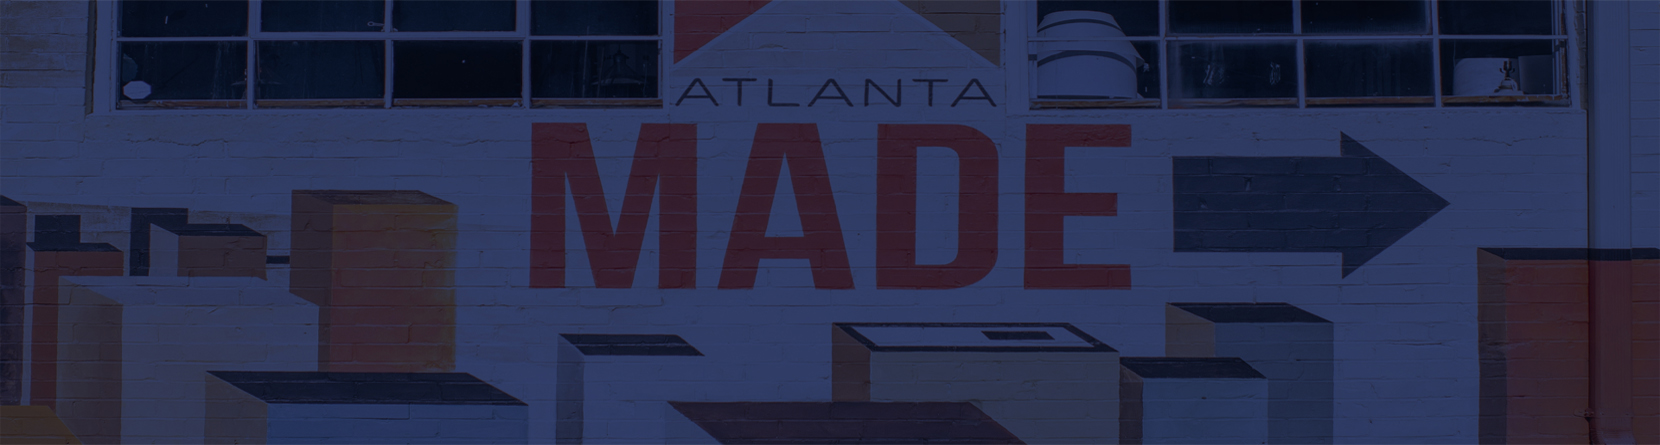
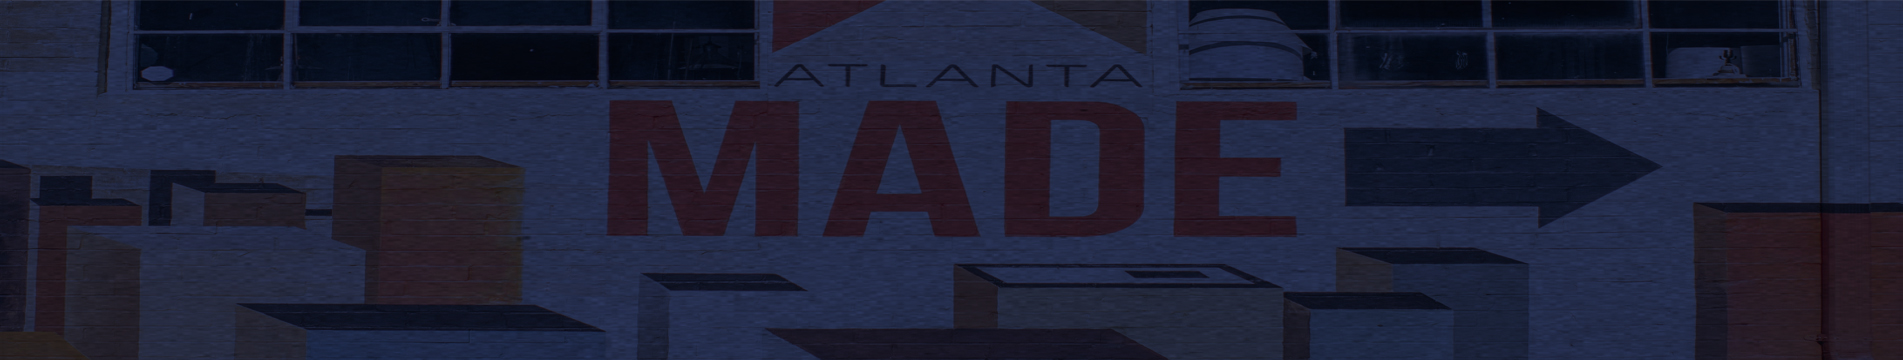
update index.html page

diff --git a/index.html b/index.html
@@ -7,39 +7,29 @@
     <meta name="description" content="I'm Mike and your should hire me to build your website">
     <meta name="viewport" content="width=device-width, initial-scale=1.0, viewport-fit=cover">
     <link rel="shortcut icon" type="image/png" href="favicon.jpg">
-    
 	<link rel="stylesheet" type="text/css" href="./css/bootstrap.css">
 	<link rel="stylesheet" type="text/css" href="style.css">
 	<link rel="stylesheet" type="text/css" href="./css/font-awesome.css">
 	<link rel="stylesheet" type="text/css" href="./css/et-line.css">
-	
-    
 	<script src="./js/jquery-2.1.0.js"></script>
 	<script src="./js/bootstrap.js"></script>
 	<script src="./js/blocs.js"></script>
 	<script src="./js/jquery.touchSwipe.js"></script>
 	<script src="./js/gmaps.js"></script>
-
-    <title>.</title>
-
-    
 <!-- Analytics -->
- 
 <!-- Analytics END -->
-    
 </head>
 <body>
 <!-- Main container -->
 <div class="page-container">
-    
 <!-- bloc-0 -->
 <div class="bloc bgc-white l-bloc " id="bloc-0">
 	<div class="container bloc-sm">
 		<nav class="navbar row">
 			<div class="navbar-header">
-					<div class="keywords" style="color:#cccccc;font-size:1px;"><!-- <h2>web agency atlanta, web strategy, web design, logo, website, web, internet, logo design</h2> --></div>
+					<div class="keywords" style="color:#cccccc;font-size:1px;"></div>
 				<a class="navbar-brand" href="index.html"><img src="img/atlanta%20web%20design%20logo.png" alt="logo, seo, google, website, internet, web design, design agency" height="40" /></a>
-					<div class="keywords" style="color:#cccccc;font-size:1px;"><!-- web agency atlanta, web strategy, web design, logo, website, web, internet, logo design --></div>
+					<div class="keywords" style="color:#cccccc;font-size:1px;"></div>
 
 				<button id="nav-toggle" type="button" class="ui-navbar-toggle navbar-toggle" data-toggle="collapse" data-target=".navbar-1">
 					<span class="sr-only">Toggle navigation</span><span class="icon-bar"></span><span class="icon-bar"></span><span class="icon-bar"></span>
@@ -61,7 +51,6 @@
 	</div>
 </div>
 <!-- bloc-0 END -->
-
 <!-- bloc-1-hero -->
 <div class="bloc bgc-dark-slate-blue bg-atlanta-20made-20sign d-bloc bg-t-edge bloc-bg-texture texture-paper b-parallax" id="bloc-1-hero">
 	<div class="container bloc-lg">
@@ -79,14 +68,12 @@
 	</div>
 </div>
 <!-- bloc-1-hero END -->
-
 <!-- bloc-2-services -->
 <div class="bloc bgc-white l-bloc" id="bloc-2-services">
 	<div class="container bloc-md">
 		<div class="row">
 			<div class="col-sm-12 text-center">
 				<article><h1>I create website and design graphics that help Atlanta companies become attractive and recognize online</h1></article>
-				<!-- <img alt="web agency, web design, logo design, atlanta agency, mike" src="img/title.png" /> -->
 			</div>
 		</div>
 		<div class="row voffset-lg med-width-whitespace">
@@ -126,14 +113,12 @@
 		</div>
 		<div class="row voffset-lg voffset">
 			<div class="col-xs-12 col-md-8 col-md-offset-2 text-center">
-				<!-- <img alt="web agency, web design, logo design " src="img/quote.png" /> -->
 				<article><h2>"Mike's an awesome <strong>freelance web designer!</strong> He captured the essence of our company in our websiteand has helped us <strong>double our online sales</strong> for our shop in Atlanta." <br>Taylor Cook, project manager Apple Delight</h2></article>
 			</div>
 		</div>
 	</div>
 </div>
 <!-- bloc-2-services END -->
-
 <!-- bloc-3-what-i-do -->
 <div class="bloc tc-white bgc-atomic-tangerine bloc-bg-texture texture-paper b-parallax bg-atlanta-20made-20sign-20orange d-bloc" id="bloc-3-what-i-do">
 	<div class="container bloc-lg">
@@ -150,15 +135,12 @@
 	</div>
 </div>
 <!-- bloc-3-what-i-do END -->
-
 <!-- bloc-4-portfolio -->
 <div class="bloc bgc-white bg-lines-h2-bg bg-repeat l-bloc" id="bloc-4-portfolio">
 	<div class="container bloc-lg">
 		<div class="row">
 			<div class="col-sm-12 text-center">
 				<article><h2>Websites I've designed and developed for Atlanta companies that resulted in more local business</h2></article>
-								<!-- <img alt="web agency, web design, logo design " src="img/title2.png" /> -->
-
 			</div>
 		</div>
 		<div class="row tight-width-whitespace portfolio-row">
@@ -206,7 +188,6 @@
 	</div>
 </div>
 <!-- bloc-4-portfolio END -->
-
 <!-- bloc-5-cta -->
 <div class="bloc bgc-dark-slate-blue bg-atlanta-20made-20sign d-bloc bloc-bg-texture texture-paper" id="bloc-5-cta">
 	<div class="container bloc-lg">
@@ -221,7 +202,6 @@
 	</div>
 </div>
 <!-- bloc-5-cta END -->
-
 <!-- Footer - bloc-8 -->
 <div class="bloc bgc-dark-slate-blue d-bloc" id="bloc-8">
 	<div class="container bloc-sm">
@@ -265,44 +245,12 @@
 								<li><a href="realestateseo.com">realestateseo.com</a></li>
 							</ul>		
 					</div>
-					<!-- <div class="col-sm-4">
-						Directories 1
-						<ul>
-							<li><a href="agencydirectory.com" alt="agencydirectory">agencydirectory.com</a></li>
-							<li><a href="seodirectory.com" alt="seodirectory">seodirectory.com</a></li>
-							<li><a href="marketingdirectory.com" alt="marketingdirectory">marketingdirectory.com</a></li>
-							<li><a href="123seo.com" alt="123seo">123seo.com</a></li>
-							<li><a href="123site.com" alt="123site">123site.com</a></li>
-							<li><a href="wordpressdirectory.com" alt="wordpressdirectory">wordpressdirectory.com</a></li>
-							<li><a href="agencylistatl.com" alt="agencylistatl">agencylistatl.com</a></li>
-							<li><a href="bestagencyatl.com" alt="bestagencyatl">bestagencyatl.com</a></li>
-							<li><a href="seolist.com" alt="seolist">seolist.com</a></li>
-						</ul>
-					</div>
-					<div class="col-sm-4">
-						Directories 2
-						<ul>
-							<li><a href="betterseo.com" alt="betterseo">betterseo.com</a></li>
-							<li><a href="yesseo.com" alt="yesseo">yesseo.com</a></li>
-							<li><a href="seojuicelink.com" alt="seojuicelink">seojuicelink.com</a></li>
-							<li><a href="bestlinks.com" alt="bestlinks">bestlinks.com</a></li>
-							<li><a href="linkalot.com" alt="linkalot">linkalot.com</a></li>
-							<li><a href="backlink.com" alt="backlink">backlink.com</a></li>
-							<li><a href="linkjuicedirectory.com" alt="linkjuicedirectory">linkjuicedirectory.com</a></li>
-							<li><a href="rankongoogle.com" alt="rankongoogle">rankongoogle.com</a></li>
-							<li><a href="trustedseo.com" alt="trustedseo">trustedseo.com</a></li>
-						</ul>
-					</div>
-				</div> -->
-			</div>
+				</div>
 		</div>
 	</div>
 </div>
 <!-- Footer - bloc-8 END -->
-
 </div>
 <!-- Main container END -->
-    
-
 </body>
 </html>

diff --git a/style.css b/style.css
@@ -45,7 +45,8 @@ a:hover {
 }
 
 .bloc-lg {
-    padding: 100px 50px;
+    padding-top: 80px;
+    padding-bottom: 38px;
 }
 
 .bloc-md {
@@ -93,10 +94,6 @@ a:hover {
 .texture-paper::before {
     background: url("img/texture-paper.png");
     background-size: 280px 280px;
-}
-
-.b-parallax {
-    background-attachment: fixed;
 }
 
 .d-bloc {
@@ -823,7 +820,7 @@ h4 {
 }
 
 .bg-atlanta-20made-20sign {
-    background-image: url("img/atlanta%20made%20sign.jpg");
+    background-image: url("img/atlanta made sign.jpg");
 }
 
 .bg-atlanta-20made-20sign-20orange {

diff --git a/css/bootstrap.css b/css/bootstrap.css
@@ -1435,7 +1435,6 @@ img {
 .img-responsive,
 .thumbnail a>img,
 .thumbnail>img {
-    display: block;
     max-width: 100%;
     height: auto
 }
